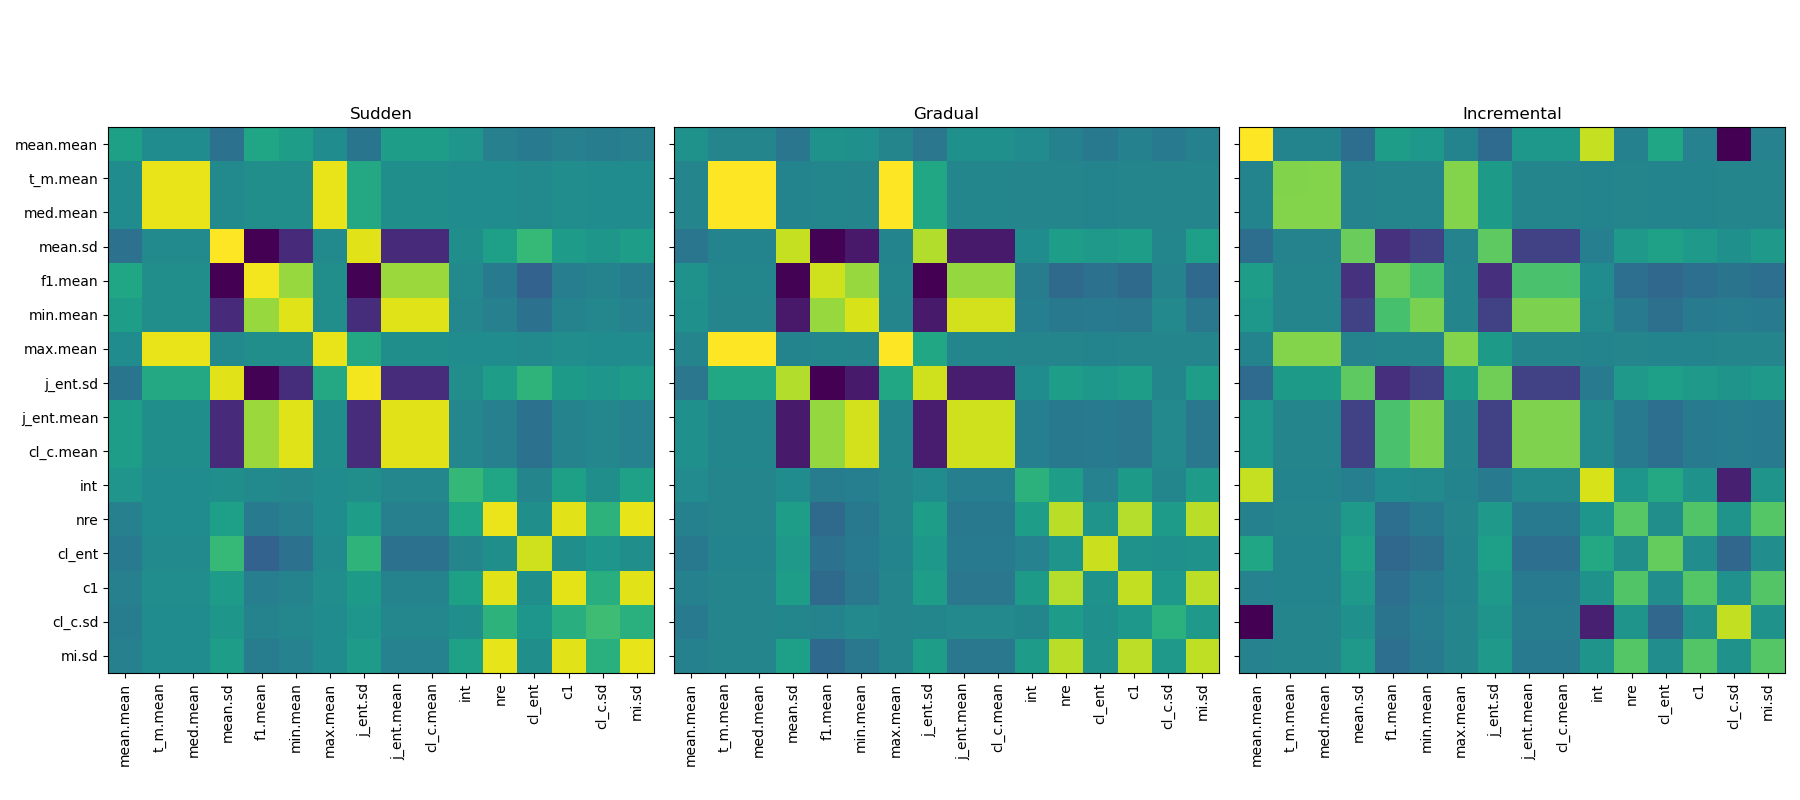
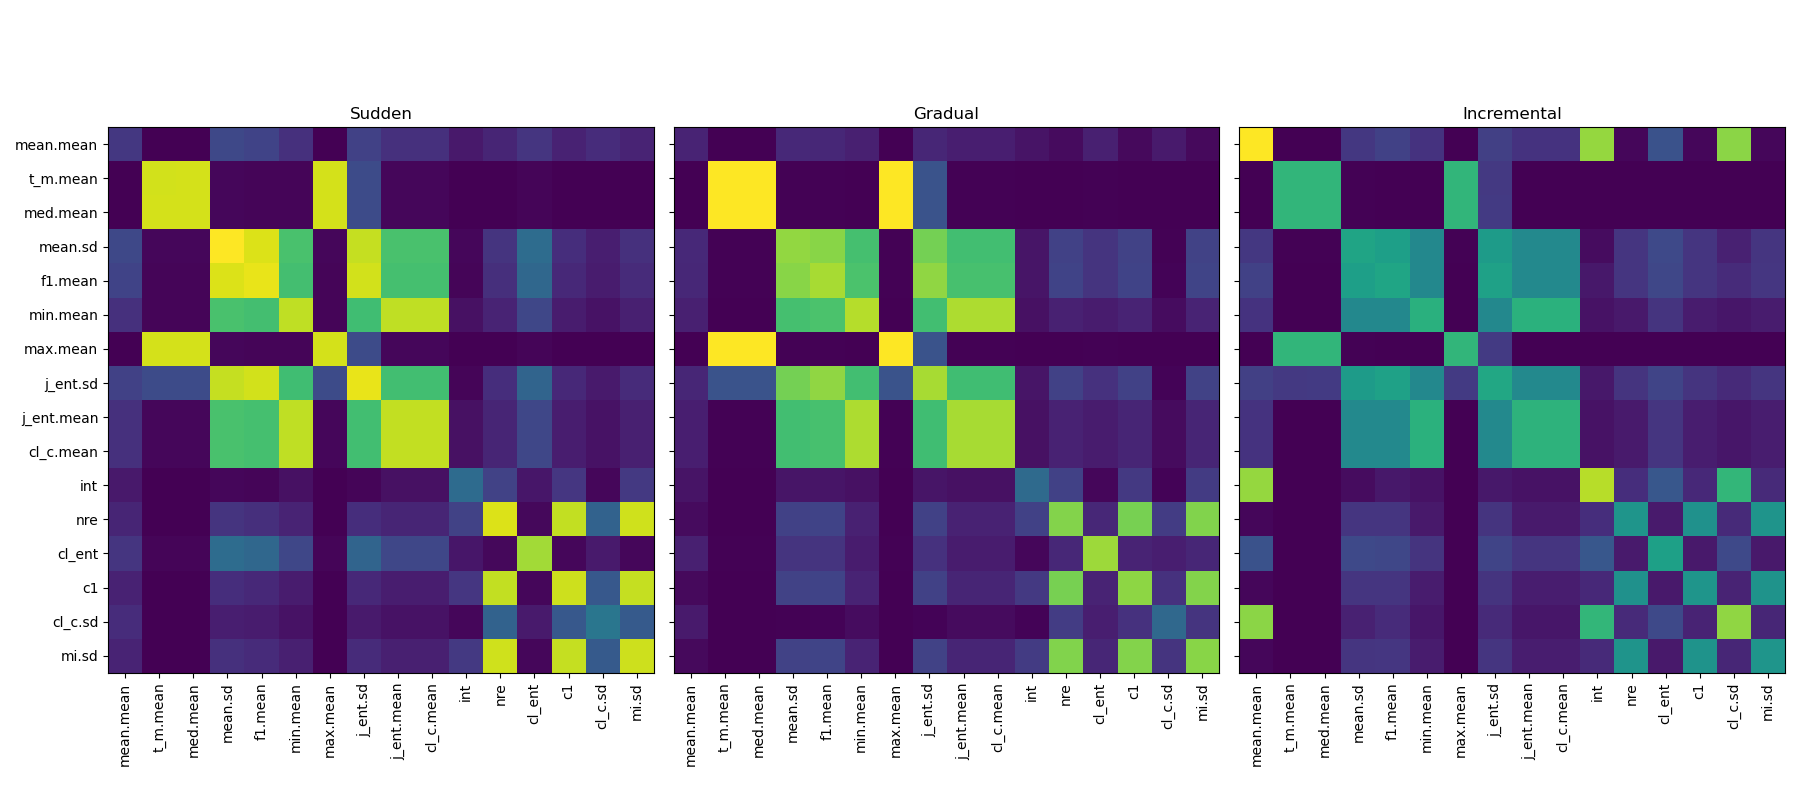
ee

diff --git a/cov_syn.py b/cov_syn.py
@@ -12,9 +12,9 @@ X = res[indexes]
 print(X.shape)
 
 # normalize
-for Xf in X:
-    Xf -= np.mean(Xf)    
-    Xf /= np.std(Xf) + 0.00001
+for i in range(16):
+    X[i] -= np.mean(X[i])    
+    X[i] /= np.std(X[i]) + 0.00001
     
 covs = np.zeros((3,5,16,16))
     
@@ -25,7 +25,7 @@ for drift in range(3):
         c = np.cov(temp)
         covs[drift, rep] = c
 
-covs_mean = np.mean(covs, axis=1)
+covs_mean = np.abs(np.mean(covs, axis=1))
 
 fig, ax = plt.subplots(1,3, figsize=(18,8), sharex=True, sharey=True)
 
